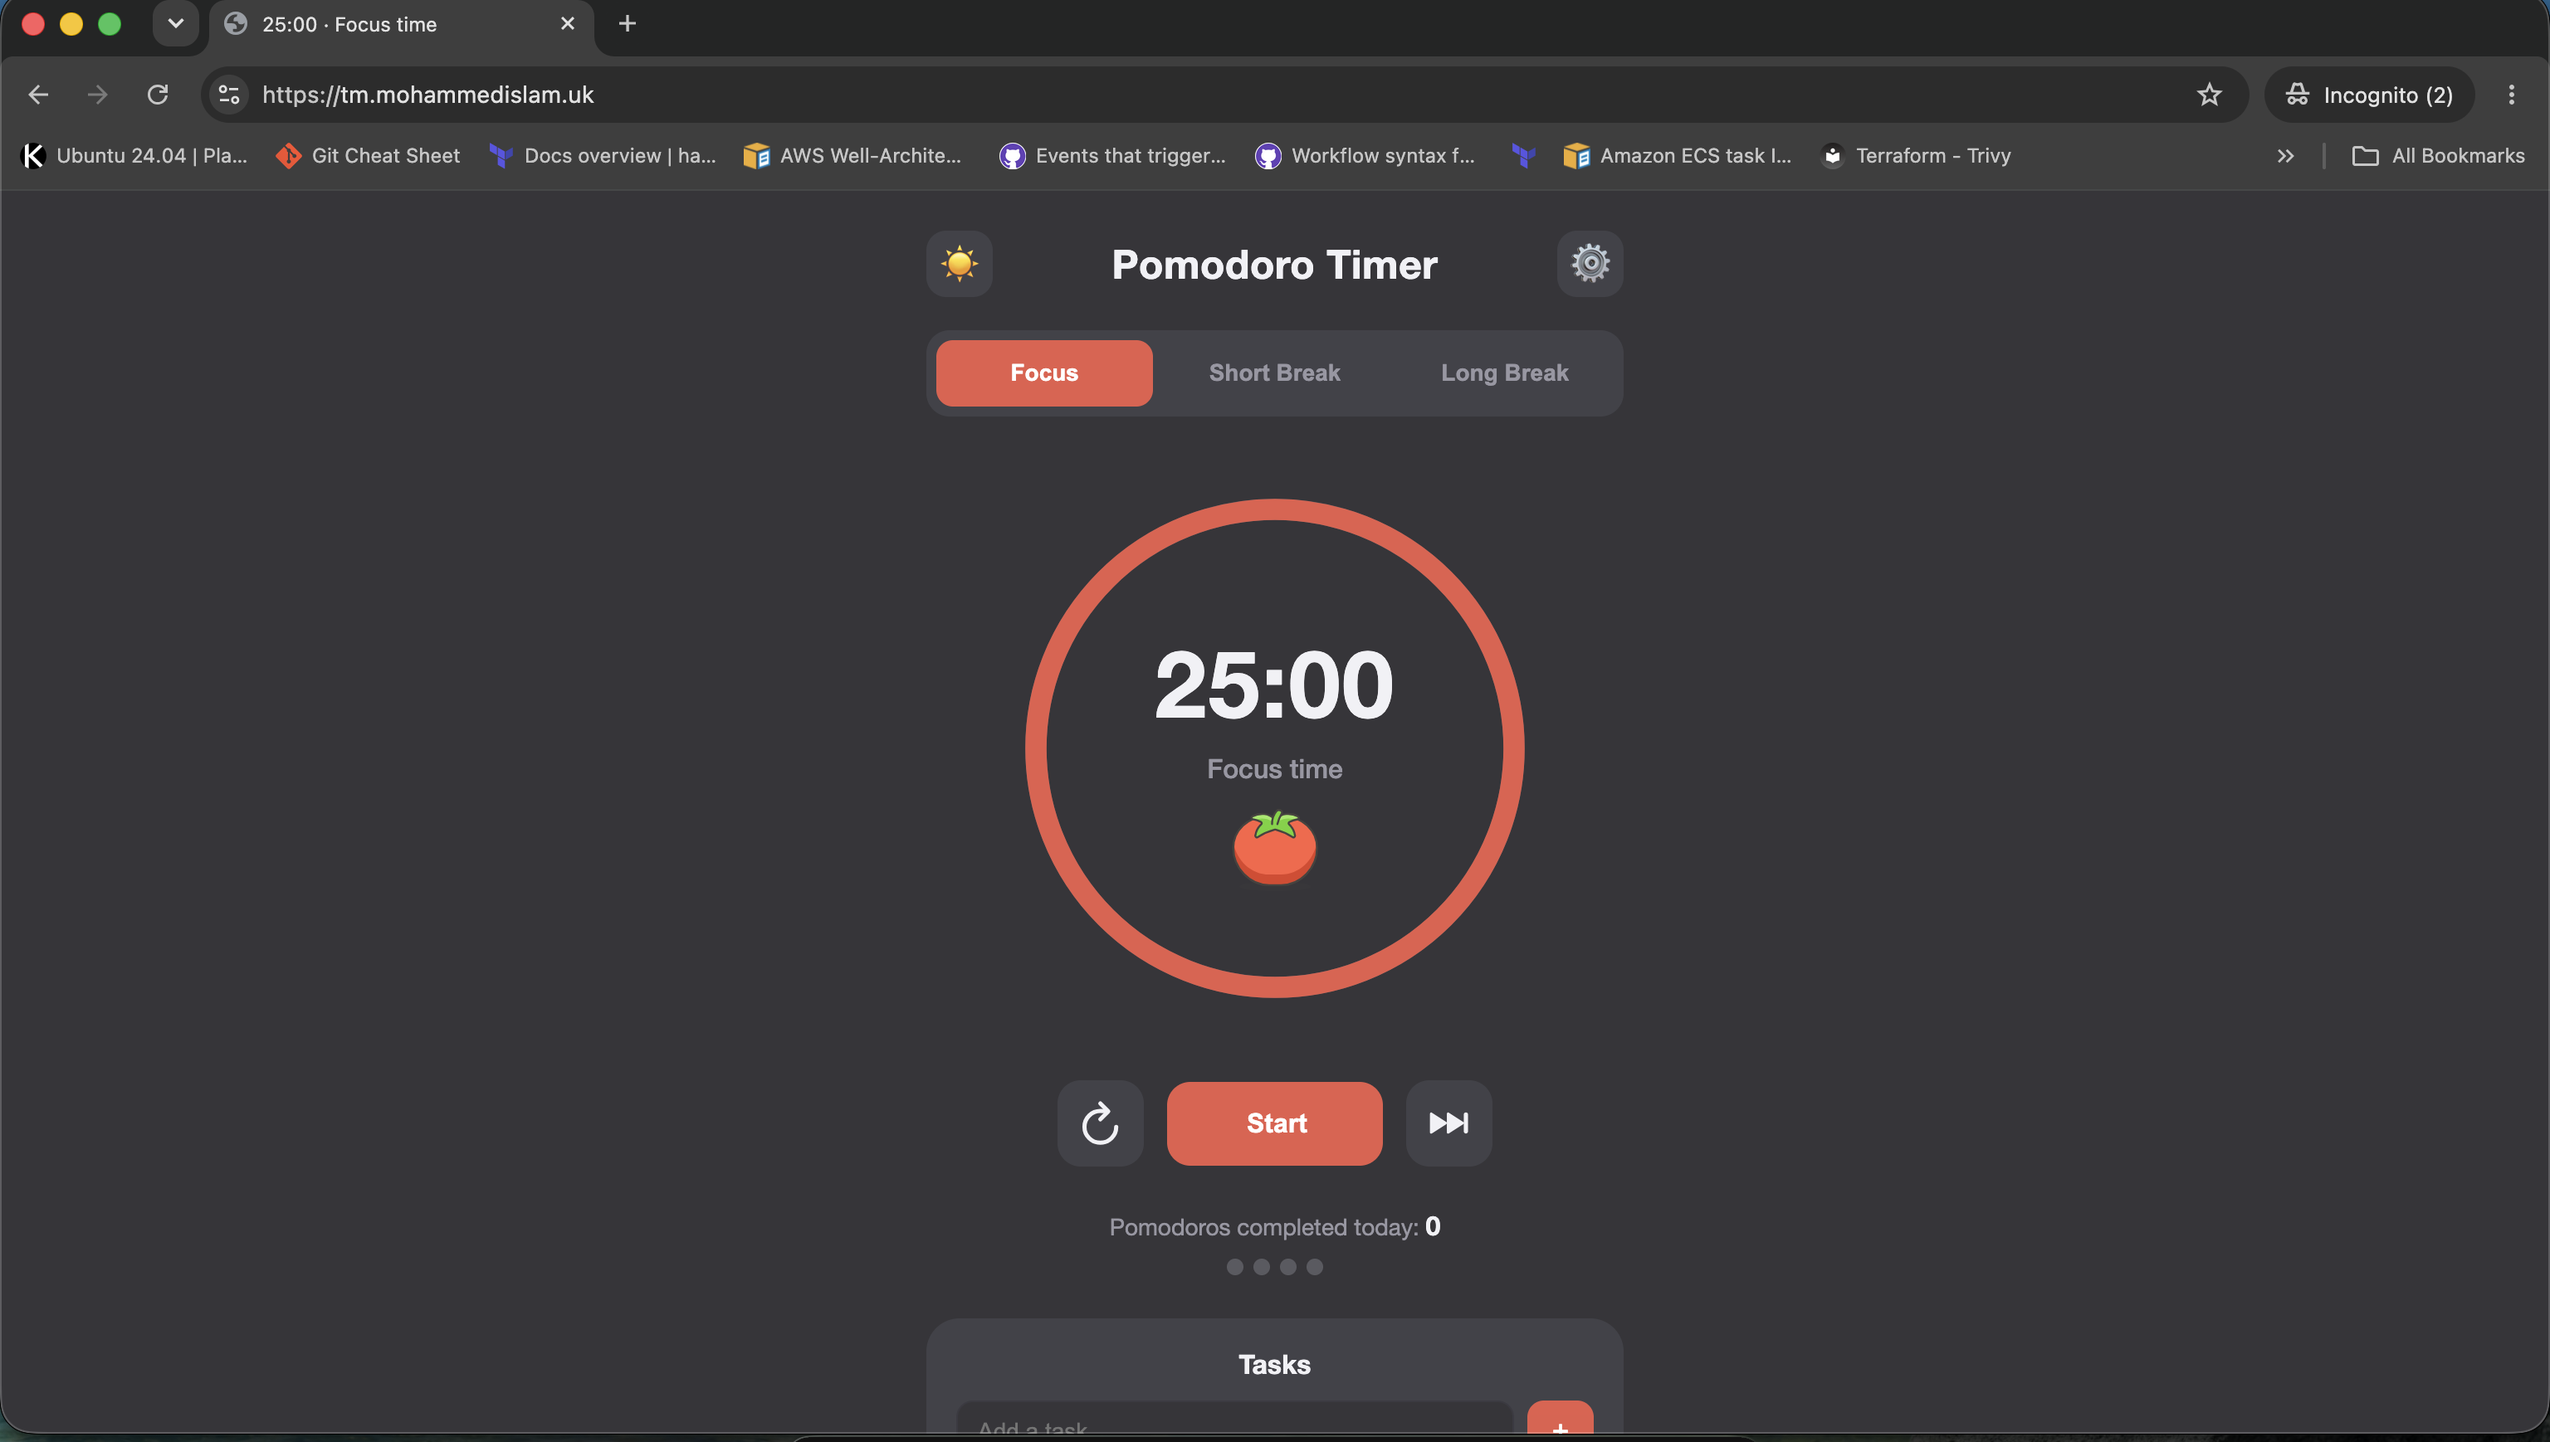
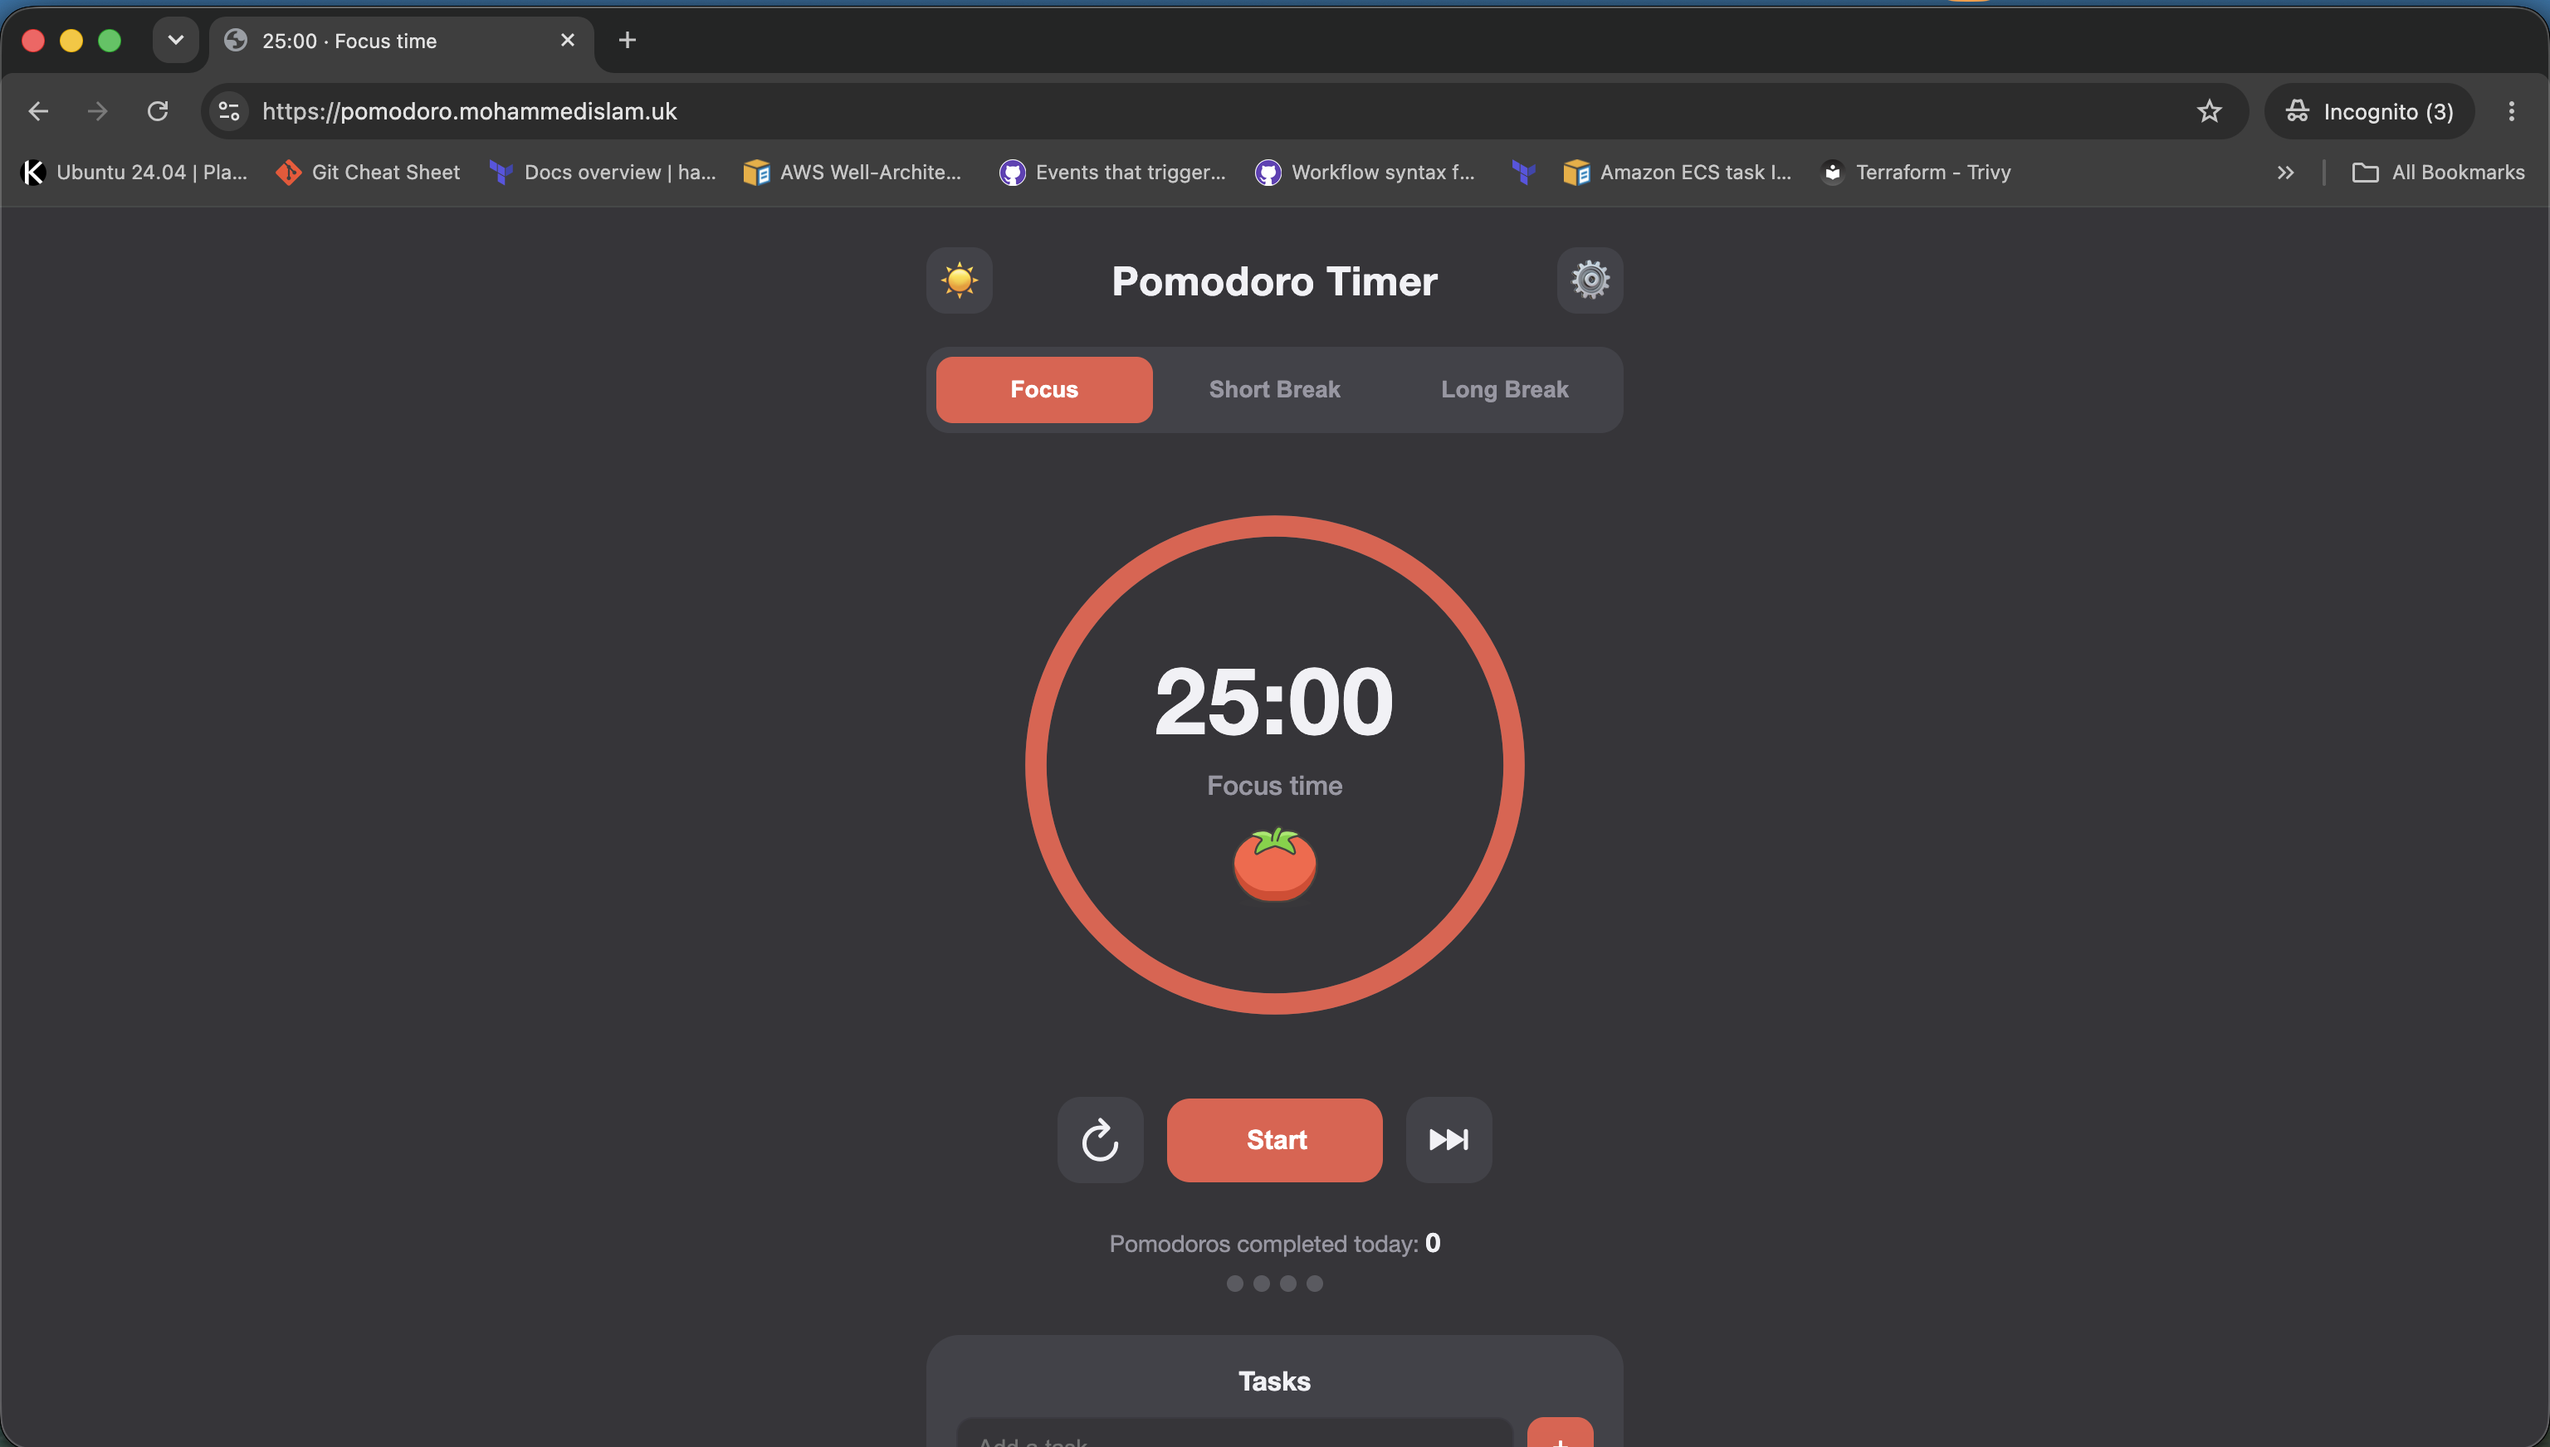
add pomodoro images

diff --git a/README.md b/README.md
@@ -1,6 +1,6 @@
 # AWS ECS Deployment Project
 
-This project deploys the AWS Threat Composer app to AWS using ECS Fargate.
+This project deploys a Pomodoro timer app to AWS using ECS Fargate.
 
 The infrastructure is provisioned with Terraform and includes a custom VPC, 2 public subnets, an Application Load Balancer, HTTPS using ACM, Route 53 DNS, ECR to store Docker images, and ECS Fargate for running the app.
 
@@ -12,14 +12,14 @@ Separate Terraform pipelines deploy and destroy the infrastructure.
 
 ## App Demo
 
-Here you can see the app is publicly visible on https://tm.mohammedislam.uk
+Here you can see the app is publicly visible on https://pomodoro.mohammedislam.uk
 
 ![HTTPS demo](ecs-images/working-https.png)
 
 Manual health check, by running
 
 ```bash
-curl -i https://tm.mohammedislam.uk/health
+curl -i https://pomodoro.mohammedislam.uk/health
 ```
 
 ![health check](ecs-images/health_check.png)
@@ -29,32 +29,32 @@ curl -i https://tm.mohammedislam.uk/health
 1. Clone this repo
 
 ```bash
-git clone https://github.com/mohammed-972/ecs-project
-cd ecs-project
+git clone https://github.com/mohammed-972/terraform-ecs-pomodoro
+cd terraform-ecs-pomodoro
 ```
 
 2. Build Docker image
 
 ```bash
-docker build -t threat-composer ./app
+docker build -t pomodoro-app ./app
 ```
 
 3. Run container
 
 ```bash
-docker run -p 3000:3000 threat-composer
+docker run -p 8080:8080 pomodoro-app
 ```
 
 4. View app
 
-Open: http://localhost:3000
+Open: http://localhost:8080
 
 5. Health check
 
 Run the following command
 
 ```bash
-curl -i http://localhost:3000/health
+curl -i http://localhost:8080/health
 ```
 
 
